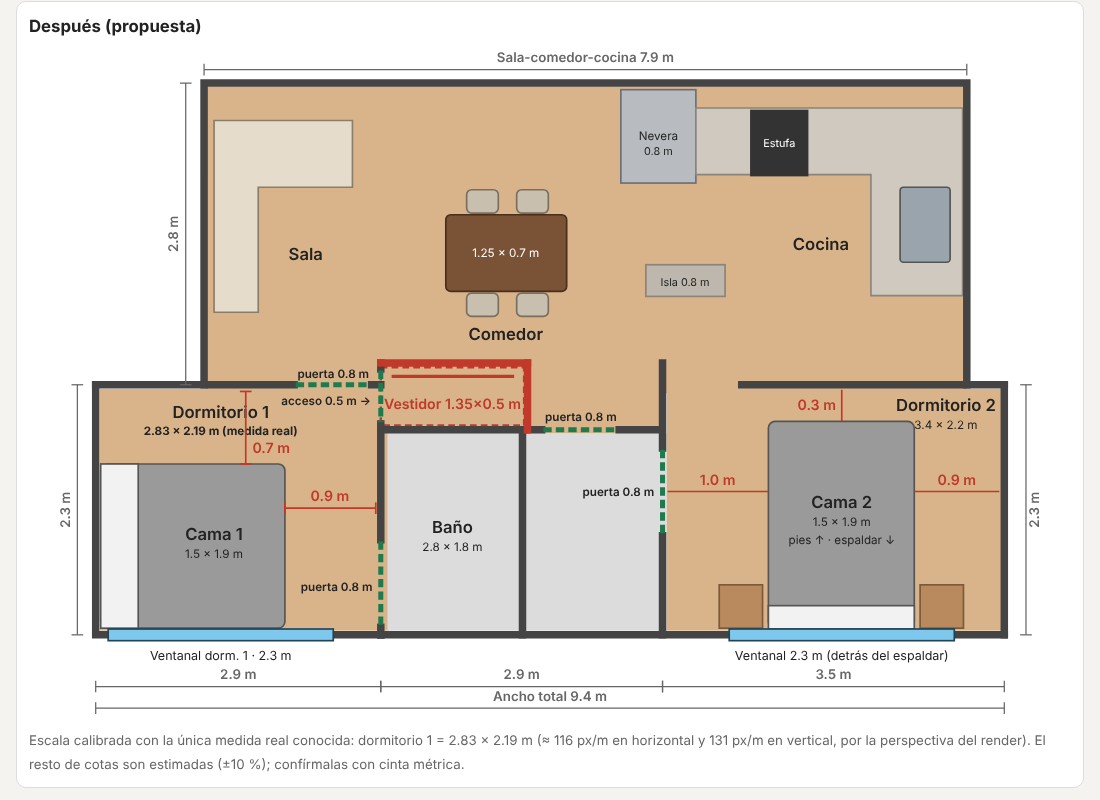
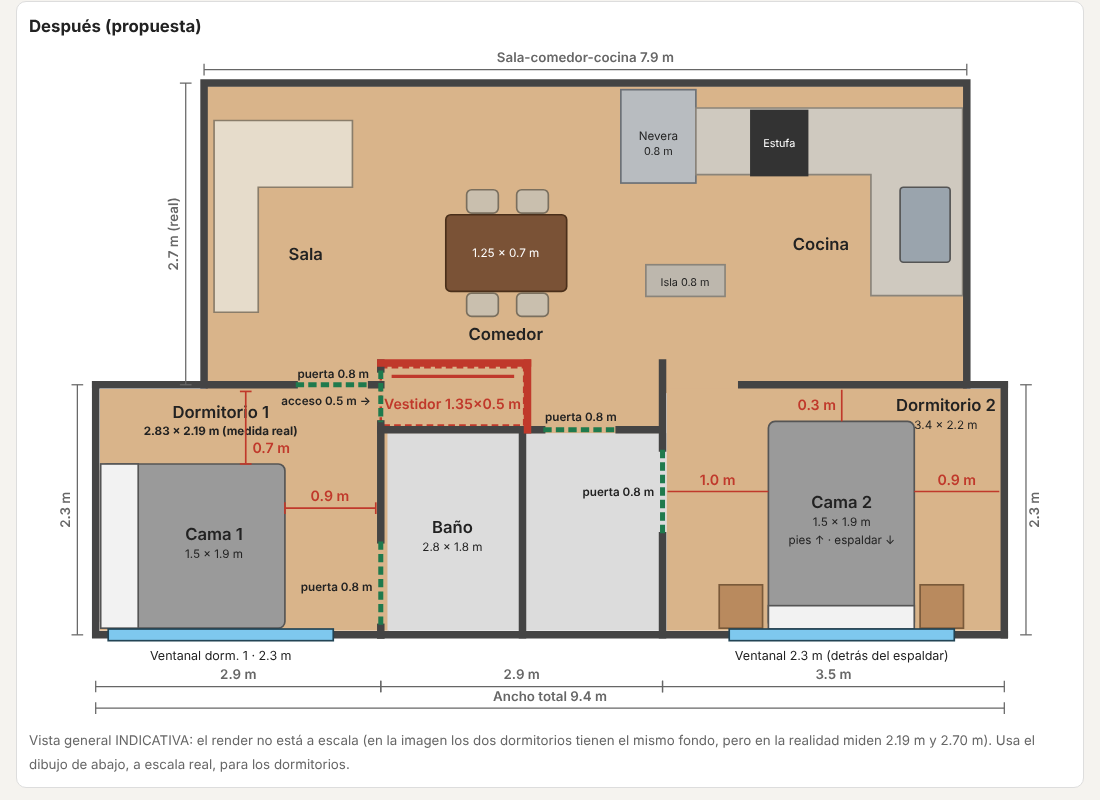
Registrar el fondo real de la sala (2.70 m)
Claude-Session: https://claude.ai/code/session_01FjBeNf4WjH2KP9gBJAno4x

Changed region(s): [[0.0309, 0.9062, 0.9582, 0.9688], [0.1545, 0.25, 0.1855, 0.3125]]

diff --git a/index.html b/index.html
@@ -170,7 +170,7 @@
       <!-- Cotas generales -->
       <g>
       <line x1="250" y1="34" x2="1165" y2="34" class="dm"/><line x1="250" y1="27" x2="250" y2="41" class="dm"/><line x1="1165" y1="27" x2="1165" y2="41" class="dm"/><text x="707.5" y="25" text-anchor="middle" class="dmt">Sala-comedor-cocina 7.9 m</text>
-      <line x1="228" y1="50" x2="228" y2="412" class="dm"/><line x1="221" y1="50" x2="235" y2="50" class="dm"/><line x1="221" y1="412" x2="235" y2="412" class="dm"/><text transform="translate(219,231.0) rotate(-90)" text-anchor="middle" class="dmt">2.8 m</text>
+      <line x1="228" y1="50" x2="228" y2="412" class="dm"/><line x1="221" y1="50" x2="235" y2="50" class="dm"/><line x1="221" y1="412" x2="235" y2="412" class="dm"/><text transform="translate(219,231.0) rotate(-90)" text-anchor="middle" class="dmt">2.7 m (real)</text>
       <line x1="98" y1="412" x2="98" y2="712" class="dm"/><line x1="91" y1="412" x2="105" y2="412" class="dm"/><line x1="91" y1="712" x2="105" y2="712" class="dm"/><text transform="translate(89,562.0) rotate(-90)" text-anchor="middle" class="dmt">2.3 m</text>
       <line x1="1236" y1="412" x2="1236" y2="712" class="dm"/><line x1="1229" y1="412" x2="1243" y2="412" class="dm"/><line x1="1229" y1="712" x2="1243" y2="712" class="dm"/><text transform="translate(1252,562.0) rotate(-90)" text-anchor="middle" class="dmt">2.3 m</text>
       <line x1="120" y1="774" x2="462" y2="774" class="dm"/><line x1="120" y1="767" x2="120" y2="781" class="dm"/><line x1="462" y1="767" x2="462" y2="781" class="dm"/><text x="291.0" y="765" text-anchor="middle" class="dmt">2.9 m</text>
@@ -265,6 +265,7 @@
       <li><b>Dormitorio 2 (2.70 × 2.70 m, medida real):</b> cama queen (1.5 × 1.9 m) con el espaldar contra el ventanal y pegada a la pared este. Deja <span class="ok">0.8 m a los pies</span> y <span class="ok">1.2 m</span> en el costado de la entrada, donde cabe una mesa de noche de 0.4 m y aún quedan 0.8 m de paso. Cabe bien: es mejor que en el dibujo anterior.</li>
       <li><b>Ventanal (~2.3 m):</b> es más ancho que la cama (1.5 m), así que queda libre ~0.4 m a cada lado del espaldar. Si el alféizar es bajo, el espaldar tapa el centro del vidrio: conviene un espaldar bajo.</li>
       <li><b>Dormitorio 1 (2.83 × 2.19 m, medida real):</b> cama queen pegada a la pared sur: <span class="ok">0.7 m</span> de pasillo al norte y ~0.9 m a los pies. Centrada dejaría solo ~0.35 m por lado, sin paso. No caben mesas de noche a ambos lados.</li>
+      <li><b>Sala (2.70 m de fondo, medida real):</b> es lo que mide la pared de la sala desde el dormitorio 1 hasta donde termina, es decir, el fondo norte-sur de la sala. Coincide con mi estimación del render (2.8 m). Falta el ancho este-oeste.</li>
       <li><b>Baño + vestidor (2.40 m entre los dormitorios):</b> descontando los dos muros de 12 cm, el ancho útil es ~2.16 m. Falta el fondo de esa franja para confirmar cuánto queda para el vestidor y cuánto para el baño.</li>
       <li><b>Límite del vestidor:</b> con 0.5 m de fondo, las prendas en gancho (~0.45 m de hombros) quedan justas y el acceso desde el dormitorio mide ~0.5 m: sirve como armario con puertas corredizas, no para entrar caminando. Lo normal para colgar es 0.55–0.6 m.</li>
       <li><b>Por confirmar:</b> si esa pared es estructural, revisarla con un ingeniero antes de abrir el hueco.</li>
